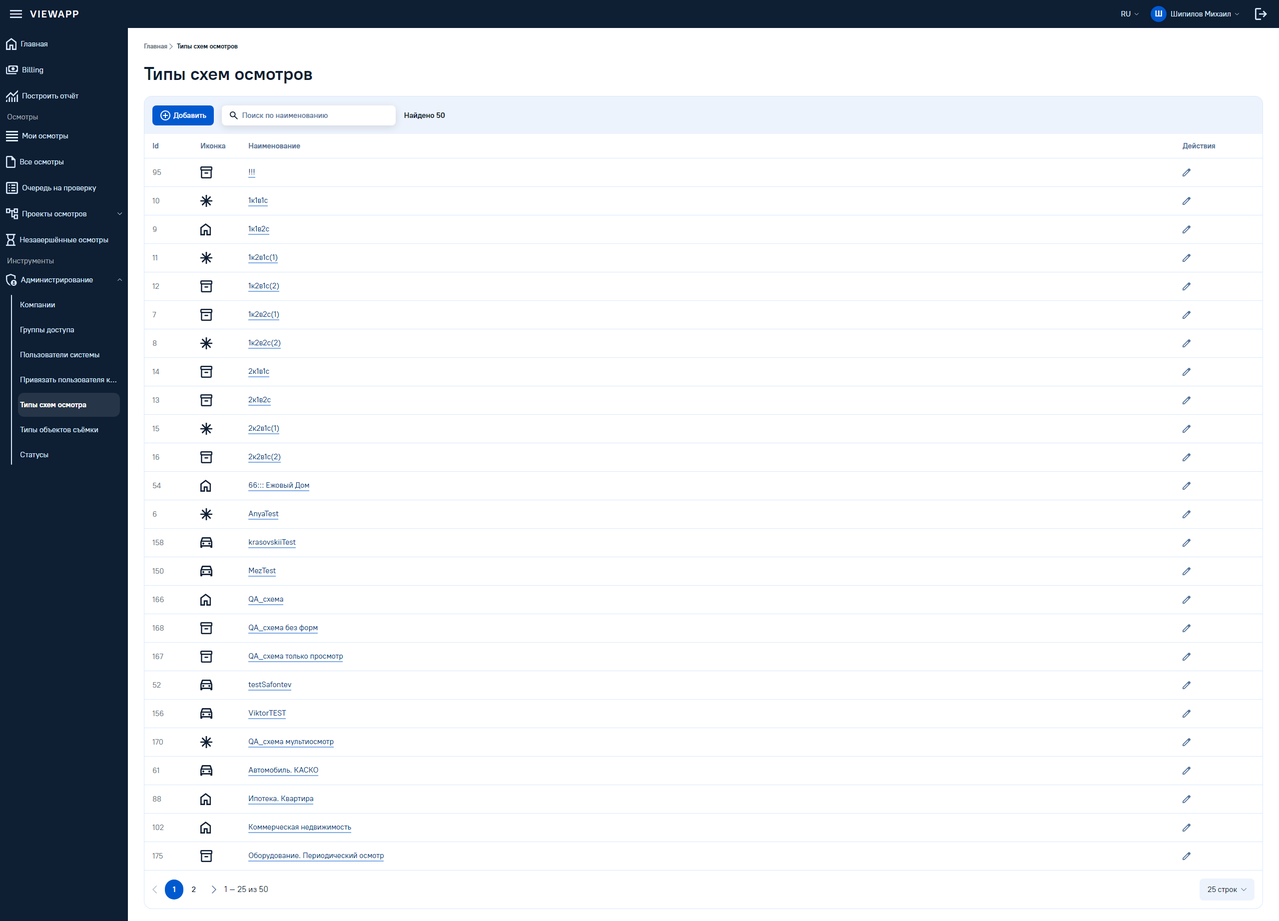
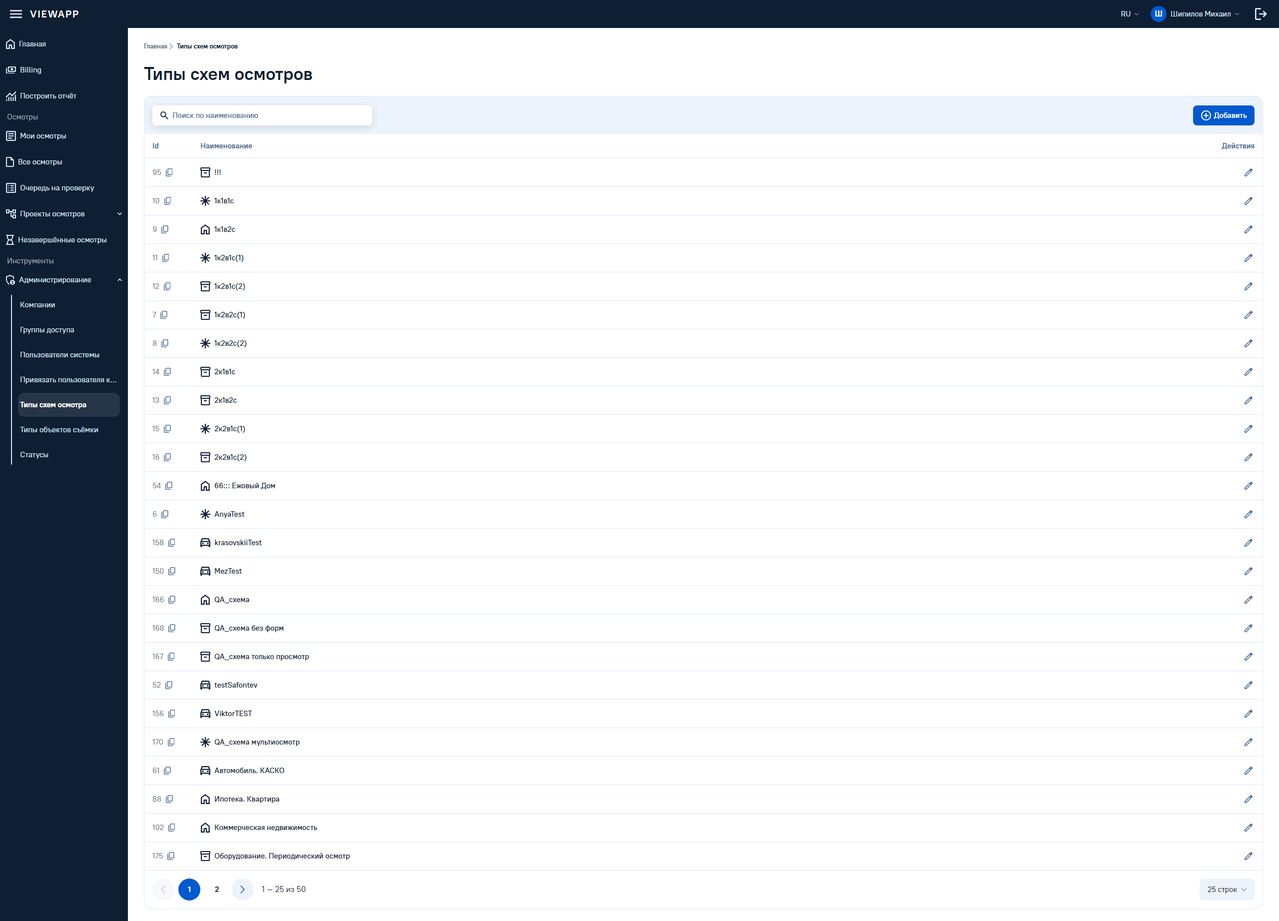
Такт 20: документы — канон таблицы, правила Mobbin, вопрос 34
naming.md: раздел «Такт 20: типовая страница-таблица админки (канон)»
вместо такта 10 (A–D с провенансом, живой поиск без изменений), раздел
«Действие строки» под D1–D6, новые компоненты в «Что где живёт».

CLAUDE.md: раздел «Референсы Mobbin» — четвёртая категория источника,
выборки делает чат, фиксация в page-*.md; ?actions=demo в оснастке.

page-insure-types.md: раздел «Такт 20» и «Референсы Mobbin» со
ссылками и счётом. open-questions.md: вопрос 34 — многозначная ячейка
справочника. handoff.md: такт 20 закрыт, следующий шаг — демо
фронт-лиду, затем стенд статусов. Скриншоты пересняты, добавлен
actions-demo; наведение и тултипы — headless Chrome через CDP.

diff --git a/docs/naming.md b/docs/naming.md
@@ -618,16 +618,26 @@ rososmotr своей поверхности под окно нет, и роль 
 | **Служебное действие рядом с содержимым — тип `service`** | подсказка, обновление списка, настройка колонок. В макете все три — один компонент `btn_service` кита 1: бокс 24, глиф `fg/secondary`. Брендовый цвет у них означал бы, что это основное действие блока, а оно не основное |
 | **Голых иконок-кнопок не бывает** | `<button>` с иконкой внутри не получит ни наведения, ни фокуса, ни гашения — и следующая такая кнопка соберётся по-своему. Даже там, где макет рисует одну пикту, в коде стоит компонент |
 
-### Действие строки — `TableRowAction`, раскрытие по строке
+### Действие строки — `TableRowAction` и `TableRowActions`
 
-Такт 10, компонент без мастера — композиция двух уже принятых идентичностей: покой `service`
-(разбор выше), развёрнутый вид — геометрия `ButtonAction` без его брендового цвета.
+Такт 10 заложил раскрытие подписи по строке, такт 20 закрепил колонку целиком. Мастера нет:
+композиция принятых идентичностей — покой `IconButton variant="service"`, попап «ещё» с «Моих
+осмотров» (`Popover` + `SelectItem`), тултип механики `TableCellText`.
 
 | Правило | Почему |
 |---|---|
-| **`TableRow` несёт `group/table-row` всегда, а не по запросу страницы** | маркер без потребителя ничего не стоит, а его отсутствие там, где он вдруг понадобится, — молчаливый дефект сборки. Тот же довод, что у `group/card` карточки |
-| **Подпись видна, но неактивна (`opacity-0`), а не убрана из DOM** | остаётся в дереве доступности: имя кнопки для читалки не зависит от того, наведена строка или нет. Отдельный `aria-label` поэтому не нужен |
-| **Ширина ячейки не реагирует на раскрытие** | у подписи меняется только `opacity`, не `width`/`max-width` — иначе соседние колонки едут при каждом наведении |
+| **`TableRow` несёт `group/table-row` всегда, а не по запросу страницы** | маркер без потребителя ничего не стоит, а его отсутствие там, где он понадобится, — молчаливый дефект сборки |
+| **Одно действие — `TableRowAction`: подпись слева, карандаш у правого края** | подпись «Редактировать» проявляется по наведению на строку, место зарезервировано, у подписи меняется только `opacity`. Владелец, такт 20 (D4) |
+| **Зазор подпись↔карандаш — 12 до глифа** | было 8 — владелец: слишком близко. Глиф 16 стоит в слоте 24, поэтому в разметке `gap-2`: 8 до слота плюс 4 поля слота. Владелец, такт 20 (D4); перевод в разметку — решение агента |
+| **Подпись видна, но неактивна (`opacity-0`), а не убрана из DOM** | остаётся в дереве доступности: имя кнопки для читалки не зависит от наведения |
+| **Тач — подпись видна по `(hover: none)`** | вторая метрика `(pointer: coarse)` врёт на стилус-экранах. Такт 10, сохранено |
+| **Несколько действий — `TableRowActions`** | контейнер колонки: слоты, порядок, выключенное, кебаб. Страница не раскладывает иконки сама |
+| **Порог: 1–3 действия инлайном, 4+ — кебаб, карандаш снаружи** | тихие иконки `IconButton service`, глиф 16. Владелец, такт 20 (D1); карандаш снаружи кебаба — рекомендация чата. Референс Mobbin: кебаб 3/15 |
+| **Порядок фиксирован глобально, справа налево** | карандаш у правого края всегда; левее — копировать, архивировать; левее всех — кебаб (глиф `pending`, тот же, что у «ещё» на «Моих осмотрах»). У одного действия одна координата на всю админку. Владелец, такт 20 (D2) |
+| **Слоты, а не поток** | слот 24×24 (хит-зона), зазор 8, `justify-end`; колонка резервирует ширину под максимум слотов страницы. Недоступное по правам действие стоит в слоте выключенным (`opacity-disabled`), слот не схлопывается. Владелец, такт 20 (D3) |
+| **При 2–3 действиях подписи нет — у иконок тултип с названием** | подпись у нескольких иконок развела бы их по разным координатам. Владелец, такт 20 (D4) |
+| **Удаление голой иконкой не ставится** | либо через `Dialog`-подтверждение, либо последним пунктом кебаба отдельной секцией; компонент уводит `destructive` в кебаб сам. Секцию отделяет зазор 8 — отдельного разделителя у Атома нет (`ListGroup` `542:4969`). Владелец, такт 20 (D5) |
+| **Набор действий у всех строк страницы один** | смешанные строки — только демо по оснастке `?actions=demo`. Владелец, такт 20 (D6) |
 
 ### Подвал таблицы примыкает, а не стоит рядом
 
@@ -686,44 +696,54 @@ rososmotr своей поверхности под окно нет, и роль 
 запись в `docs/open-questions.md`: там дыра (нет экспортируемых данных), а не конфликт с уже
 принятым решением.
 
-### Такт 10: типовая страница-таблица админки
+### Такт 20: типовая страница-таблица админки (канон)
 
-Мастера нет — это паттерн сборки, закреплённый на примере «Типы схем осмотров» и обязательный
-для любой будущей однотипной таблицы админки (списки справочников: типы объектов, статусы,
-пользователи и подобные). Провенанс всех решений — владелец, такт 10, если не помечено иначе.
+Мастера нет — это паттерн сборки, закреплённый на «Типах схем осмотров» и обязательный для любой
+будущей однотипной таблицы админки (справочники: типы объектов, статусы, пользователи и подобные).
+Провенанс — владелец, такт 20, если не помечено иначе.
 
-**Состав шапки-карточки таблицы:**
+> **Вариант такта 10 снят.** Там «Добавить» стоял слева, поиск и счётчик «Найдено N» — правее,
+> а колонка «Иконка» была отдельной. Закреплено превью тактов 13–18 с правками такта 20.
 
-| Часть | Правило |
-|---|---|
-| «Добавить» | `Button` без `variant` (primary), слева, первым элементом строки |
-| поиск | `Input variant="elevated"` с дефолтной лупой, плейсхолдер «Поиск по …» — предметный, не общий; правее кнопки |
-| счётчик | `«Найдено N»`, 15/20 Bold, правее поиска |
-| **правило расширения (не собирать, если фильтров нет)** | когда у страницы есть фильтры, шапка растёт **второй строкой**: ряд `FilterChip` под строкой действий и поиска, тот же контейнер `TableToolbar`. Раньше времени вторую строку не заводить — пустой ряд чипов лжёт о наличии фильтров там, где их нет |
+**A. Шапка**
 
-**Живой поиск — правило, а не разовая реализация:**
+| Часть | Правило | Провенанс |
+|---|---|---|
+| поиск | `Input variant="elevated"` 440 **слева**, дефолтная лупа, плейсхолдер предметный: «Поиск по …» | владелец, такт 20; референс Mobbin: поиск слева 7/9 |
+| «Добавить» | `Button` без `variant` (primary) **справа** | владелец, такт 20; референс Mobbin: кнопка добавления справа 9/9 |
+| ось | все элементы шапки по одной вертикальной оси (`items-center`) | владелец, такт 17 |
+| счётчик | **в шапке нет и не будет.** Число живёт в `TableFooter`: «1 – 25 из 50» | владелец, такт 18; прод: на исходной странице счётчика нет; референс Mobbin: счётчик у поля 0/15 |
+| правило расширения фильтрами | когда у страницы есть фильтры, шапка растёт **второй строкой** — ряд `FilterChip` в том же `TableToolbar`. Раньше времени вторую строку не заводить | перенесено из такта 10 без изменений |
+
+**Живой поиск — правило, а не разовая реализация** (перенесено из такта 10 без изменений):
 
 | Правило | Почему |
 |---|---|
-| **Фильтрация — по подстроке, без учёта регистра, до пагинации** | иначе счётчик «Найдено» и разбивка по страницам расходятся: страница может исчезнуть у отфильтрованного набора |
+| **Фильтрация — по подстроке, без учёта регистра, до пагинации** | иначе число в подвале и разбивка по страницам расходятся: страница может исчезнуть у отфильтрованного набора |
 | **Смена запроса сбрасывает номер страницы на первый** | иначе легко оказаться на странице, которой у нового набора уже нет — то же правило, что у смены размера страницы (такт 8, дефект `TableFooter`) |
 
-**Колонка «Действия»: две идентичности одного контрола, а не два элемента**
+**B. Блок идентичности**
 
-| Правило | Почему |
+| Правило | Провенанс |
 |---|---|
-| **В покое — только `service`-иконка, при наведении на строку — подпись** | решение владельца: действие не должно занимать внимание, пока строка не выбрана взглядом, но должно быть доступно всегда, а не только по клику |
-| **Триггер раскрытия — строка, а не сама кнопка** | `group/table-row` живёт на `TableRow` всегда (см. раздел 6, «Действие строки»), а не заводится на странице — тот же приём, что `group/card` у карточки осмотра |
-| **Подпись не сдвигает раскладку** | ширина колонки фиксированная под развёрнутое состояние; у подписи меняется только `opacity`, не ширина. Компонент этому не помогает и не мешает — контроль ширины остаётся на странице, как и у всех колонок таблицы («Ширину колонки задаёт таблица, а не ячейка») |
-| **Тач — по `(hover: none)`, не по `(pointer: coarse)`** | вторая метрика врёт на стилус-экранах без ховера; первая — точный признак отсутствия физической возможности навести курсор |
-| **Геометрия и цвет — из двух разных прецедентов, не из одного** | геометрия (зазор, высота строки) — от `ButtonAction`, нишевого «ghost»; цвет — от `IconButton variant="service"`. Компонент не является ни тем, ни другим целиком |
+| **Колонки «Иконка» нет: эмблема и имя — одна ячейка «Наименование»** — `TableCellIdentity`: иконка 20 в боксе 20×20, зазор 8, имя 15/20 medium `text-foreground` | владелец, такт 20; геометрия — пункт меню кита 1 (`menuItemContent`); референс Mobbin: OpenSea — аватар и имя одним блоком, имя весом выше остальных ячеек |
+| **Id — первая колонка, `text-muted-foreground`, `CopyableId`** | такт 10 и правило «идентификатор со службой копирования» (такт 11), сохранено |
+| **Остальные ячейки — regular** | владелец, такт 20: весом выше только имя |
 
-**Ячейки — рекомендация Claude, принята без переигровки:**
+**C. Строка — цель клика**
 
-| Правило | Почему |
+| Правило | Провенанс |
 |---|---|
-| **Id — на `text-muted-foreground`** | служебный номер, не содержательное значение; та же логика, что у приглушённых вспомогательных подписей везде в ките |
-| **Наименование — текст** | решение владельца, такт 12: `Hyperlink` снят. Плоский текст основного цвета (`text-foreground`) внутри `TableCellText`, без подчёркивания, без `href`, без ховера ссылки — сама ссылка на карточку сущности не заведена, строка остаётся кликабельной ховером строки. Рекомендация такта 10 не подтвердилась |
+| **Клик по строке открывает сущность на редактирование** — `TableRow interactive` (курсор-указатель, наведение такта 10). На стенде обработчика нет намеренно, как у «Добавить» | владелец, такт 20; референс Mobbin: клик в строку → панель 5/15 |
+| **Редактирование открывает страницу, а не дровер** | владелец, такт 20: форма справочника длинная — факт прода, страница статусов |
+
+**D. Колонка «Действия»** — правила в разделе «Действие строки — `TableRowAction` и
+`TableRowActions`» выше.
+
+**Карандаш по наведению с подписью — сознательное отклонение от референса.** Референс Mobbin:
+клик в строку → панель 5/15, кебаб 3/15, постоянная кнопка Edit 1/15, карандаш по ховеру с
+подписью 0/15. Владелец оставляет карандаш: строка кликабельна, карандаш — явный вход, как «Изм»
+на проде.
 
 ### Идентификатор со службой копирования
 
@@ -803,6 +823,8 @@ rososmotr своей поверхности под окно нет, и роль 
 | **Выпадающая плашка светлая даже когда она — настоящий портал из тёмного меню** | правило порталов. Сверено с мастером: заливка `MenuPopOver` белая, тень та же, что у выпадашки списка. Уточнение такта 9 — правило про порталы, не про «всё, что всплывает»: см. раздел выше |
 | **Цвет по роли, а не по виду** | `success` — потому что операция завершилась, а не потому что нужен зелёный. Разбор — раздел «Роль против палитры» выше |
 | **Расширенная палитра — только по явному указанию** | «похоже по цвету» не основание: зелёная `palette-01` стоит рядом с `success`, и перепутать легко |
+| **Колонка действий строки — `TableRowActions` в `table/`** | контейнер колонки: слоты, глобальный порядок (`TABLE_ROW_ACTION_ORDER` в `table/index.ts`), выключенное, кебаб. Одно действие он отдаёт `TableRowAction`. Такт 20 |
+| **Блок идентичности строки — `TableCellIdentity` в `table/`** | иконка 20 + зазор 8 + имя medium одной ячейкой. Живёт в таблице, а не в меню: геометрия общая с пунктом меню кита 1, назначение — ячейка. Такт 20 |
 
 ---
 

diff --git a/docs/handoff.md b/docs/handoff.md
@@ -16,7 +16,7 @@
 **Перенос Атома закончен, все девять волн приняты. Этап 2 — обогащение — закрыт целиком.**
 Идёт **тест кита на живой странице**: разбор ниже, история этапов — дальше по документу.
 
-## Где мы сейчас: тест кита на живых страницах завершён, такты 1–19 закрыты
+## Где мы сейчас: тест кита на живых страницах завершён, такты 1–20 закрыты
 
 Перенос и обогащение позади. **Тест кита на живых страницах закрыт.** Две страницы:
 
@@ -58,22 +58,19 @@
 | **18** — счётчик убран целиком | Типы схем осмотров | решение владельца: на исходной странице админки счётчика в шапке нет, вопрос отложен. Шапка — поле 440 слева, «Добавить» справа, центровка такта 17 сохранена (поле и кнопка по одной оси, дельта 0px) |
 | **19, часть 1** — палитра витрины по ролям | витрина `/` | раздел «Палитра» идёт по `naming.md`, раздел 2, в том же порядке (`app/components/showcase/palette-groups.ts`, `Palette.vue`, `PaletteSwatch.vue`): рампы строками «база → состояния», у свотча имя, hex **выбранной** темы и роль из `naming.md`/`tokens.md`/кода. Починен сборщик токенов — видел 21 цвет из 119 и пустые «Радиусы»/«Типографика». Сверка — дельтой к 2026-08-11, подраздел «Сверка 2026-09-15» в `tokens.md`, раздел 6: кит и старые токены без изменений, 26 новых сверены. Тема **не менялась**. Найдено: ложное «у рамп 02–05 только default» (верна была `naming.md`), `border/primary` из чужой библиотеки (вопрос 14), мёртвое переопределение теней в `atom` (ждёт команды) |
 | **19, часть 2** — палитра: единица — строка | витрина `/` | решение владельца 2026-09-15: карточки сняты, каждая группа — таблица из компонентов кита (без скругления и рамки контейнера, разделитель `--border-neutral`). Две формы одной строки: таблица ролей (Роль · Свотч · Токен · Hex · Где применяется) и матрица состояний (оси — только существующие в группе). Рампа — сплошная полоса клеток 64×40, пустое состояние — пустая клетка. Под клеткой — хвост токена и hex, база — в колонке «Роль»: полный токен до 222px моно 13 в клетку 64 не помещается (замер). Свотч 64×40 r8, обводка 1px внутрь нейтральной на 50%. Тени — все семь девятой группой «Тени» по разделу 4 `naming.md`, на подложке `--muted` (единственная группа с подложкой). Сайдбар — таблица ролей. Правки темы по пунктам 3 и 6 расхождений: комментарии рамп по факту и утилиты `bg-palette-02…05-hover`/`-pressed`; утилиты `shadow-elevated*` в `@theme inline` ссылаются на `var(--shadow-elevated*)`, значения — в блоке темы; переопределение в `atom` действует (проверено подстановкой значения в узел темы). Первый заход — перенос в `@theme` без `inline` — не сработал: утилита тени вшивает значение, чтобы подменять цвет. `TableRow` получил слияние `class` через `cn`, как соседи. Замеры: ячейка 56 (строка 57 с разделителем, как в таблице кита), паддинг 16, между группами 48, заголовок→таблица 16; atom — 73 помечены «из rososmotr». Правило — `naming.md`, раздел 6 |
+| **20** — паттерн типовой страницы-таблицы закреплён | Типы схем осмотров | превью тактов 13–18 принято и стало каноном в `naming.md` (вариант такта 10 снят). Шапка: поиск 440 слева, «Добавить» справа, одна ось, счётчика нет — число в подвале. Колонка «Иконка» снята: `TableCellIdentity` (иконка 20 + 8 + имя medium, геометрия пункта меню кита 1). Строка — цель клика (`interactive`, обработчика нет намеренно). Колонка действий — `TableRowActions`: 1 действие — `TableRowAction` с подписью слева и карандашом в слоте 24 у края (до глифа 12); 2–3 — тихие иконки с тултипами; 4+ или удаление — кебаб `pending` с попапом «ещё», «Удалить» отдельной группой. Глобальный порядок справа налево: карандаш, копировать, архивировать, кебаб; слоты 24 через 8, выключенное не схлопывается — у `IconButton service` заведён выключенный вид. Глиф `delete` из официальной выгрузки. Оснастка `?actions=demo`. Правила Mobbin — в `CLAUDE.md`; вопрос 34 (многозначная ячейка) — в `open-questions.md`. Наведение и тултипы проверены headless Chrome через DevTools Protocol: X карандаша 1226 у всех строк, колонка 176 при наведении |
 
-### Превью insure-types — ждёт приёмки владельцем
+### Такт 20 закрыт: паттерн закреплён
 
-Такты 13–18 (часть 2 каждого такта) собирали два куска страницы **в композиции самой страницы**,
-не трогая `naming.md` и канон компонентов такта 10 — это сознательно превью, а не закреплённое
-правило. Текущий вид:
+Превью тактов 13–18 принято владельцем с правками такта 20 и закреплено каноном типовой
+страницы-таблицы админки в `naming.md` — раздел «Такт 20: типовая страница-таблица админки
+(канон)»; вариант такта 10 снят. Колонка действий — раздел «Действие строки — `TableRowAction` и
+`TableRowActions`». Разбор по числам, провенанс и референсы Mobbin — `page-insure-types.md`,
+раздел «Такт 20».
 
-- **шапка без счётчика** — поле поиска (440) слева, «Добавить» справа, все элементы шапки по
-  одной вертикальной оси;
-- **колонка действий с подписью по ховеру строки** — тихий карандаш прижат к правому краю и не
-  двигается, подпись «Редактировать» проявляется слева от него при наведении на строку
-  (`opacity`, без сдвига раскладки), тултипа на иконке нет.
-
-После решения владельца — либо закрепляется в `naming.md` как новый канон типовой
-страницы-таблицы (взамен варианта такта 10), либо откатывается. Разбор по числам — в
-`page-insure-types.md`.
+Любая следующая таблица-справочник админки собирается по этому канону: шапка без счётчика,
+блок идентичности в «Наименовании», строка — цель клика, колонка действий через
+`TableRowActions`. Смешанный набор действий у строк — только оснастка `?actions=demo`.
 
 ### Сайдбар выправлен по мастеру и проду (такты 12–14, часть 1)
 
@@ -132,6 +129,7 @@ Headless-браузер (и headless Chrome через CDP для наведен
 | `?rows=<n>` | обе | размер страницы |
 | `?scroll=<px>` | Мои осмотры | прокручивает таблицу вбок |
 | `?q=<строка>` | Типы схем осмотров | подставляет поисковый запрос |
+| `?actions=demo` | Типы схем осмотров | первые три строки показывают раскладки 2, 3 и 4+ действий (кебаб) |
 
 **В продукт они не идут.** Помечены в коде как оснастка приёмки; при передаче фронтам — снять
 или спрятать за флагом сборки. Один из пунктов повестки Ивана.
@@ -153,21 +151,21 @@ npm install && npm run dev
 
 ### Следующий шаг
 
-0. **Такт 20 — insure-types.** Работа по палитре закрыта тактом 19 (части 1 и 2). Следующий такт
-   по странице «Типы схем осмотров» — 20: слово владельца по превью тактов 13–18 (закрепить в
-   `naming.md` взамен канона такта 10 или откатить).
 1. **Демо фронт-лиду.** Обе страницы готовы к показу: карточный и табличный вид «Мои осмотры»,
-   вторая страница как контраст «было / стало на ДС».
-2. **Повестка Ивана (фронт-лид)** — решения нужны от Михаила:
+   вторая страница как контраст «было / стало на ДС» — теперь с закреплённым каноном
+   типовой страницы-таблицы (такт 20).
+2. **Стенд статусов** — следующая таблица-справочник по канону такта 20. На нём решается
+   вопрос 34: многозначная ячейка «Компании».
+3. **Повестка Ивана (фронт-лид)** — решения нужны от Михаила:
    - мерж `atom-base` в общую ветку;
    - сторибук — заводить ли, и если да, то на чём;
    - судьба приёмочной оснастки (`?open=`, `?only=`, `?view=`, `?filters=`, `?selected=`,
-     `?rows=`, `?scroll=`, `?q=`) — снять перед мержем или спрятать за флагом;
+     `?rows=`, `?scroll=`, `?q=`, `?actions=demo`) — снять перед мержем или спрятать за флагом;
    - решение агента «второе направление сортировки поворотом глифа» — второго глифа в ките нет,
      разворот текущего используется как временное решение.
-3. **Дане при синхронизации мастеров Figma:** строка `ListItem` с правым слотом; рассинхрон
+4. **Дане при синхронизации мастеров Figma:** строка `ListItem` с правым слотом; рассинхрон
    плейсхолдеров поиска в двух кадрах макета «Мои осмотры».
-4. **Дизайнерам (через `figma-fixes.md` и `design-debt.md`):** ступень поверхности темнее
+5. **Дизайнерам (через `figma-fixes.md` и `design-debt.md`):** ступень поверхности темнее
    `accent/surface_bright` (наведение чипа); состояния `Chip` и `Slider` в мастере кита 1;
    компактное состояние `top_menu` сайдбара; развёрнутый инлайн-список подменю кита 1.
 

diff --git a/CLAUDE.md b/CLAUDE.md
@@ -321,6 +321,20 @@ Material рисует глиф с полями внутри квадрата 960
 бы белую плашку со светлым текстом — нечитаемо и против источника. Проверять степень
 принадлежности, а не просто «оно всплывает».
 
+## Референсы Mobbin
+
+Решение владельца, такт 20. Mobbin — **четвёртая категория источника: «референс»**, ниже мастера,
+прода и прецедента.
+
+| Правило | Как применяется |
+|---|---|
+| **Где есть мастер, референс не открывается** | мастер закрывает вопрос сам; референс его **никогда не переопределяет** |
+| **Решение по референсу — решение владельца** | провенанс пишется как «референс Mobbin N/M»: сколько экранов из выборки показывают паттерн |
+| **Выборки делает чат** | Михаил смотрит галерею своим глазом; агент получает выводы, счёт и ссылки |
+| **Агент открывает Mobbin сам только в тактах «разберись»** | для сущностей без мастера и только если выборка чата вопрос не закрыла |
+| **Один запрос — один элемент паттерна** | deep, web, 6 экранов; не больше двух запросов на элемент |
+| **Фиксация** | в `page-*.md` раздел «Референсы Mobbin»: таблица «экран → ссылка → что показывает», под ней счёт N из M. В `naming.md` у правила — провенанс |
+
 ## Сборка страниц
 
 Страница собирается **только из компонентов реестра**. Локальные override запрещены: если
@@ -341,7 +355,7 @@ Material рисует глиф с полями внутри квадрата 960
 Headless-браузер снимает страницу **от начала документа**: кликать и прокручивать он не
 умеет. Поэтому состояния для снимков задаются параметрами адреса, и они помечены в коде как
 оснастка приёмки: `?open=`, `?only=`, `?view=`, `?filters=`,
-`?selected=`, `?rows=`, `?scroll=`. В продукт они не идут.
+`?selected=`, `?rows=`, `?scroll=`, `?q=`, `?actions=demo`. В продукт они не идут.
 
 ### Класс снаружи мержится, а не приклеивается
 

diff --git a/docs/open-questions.md b/docs/open-questions.md
@@ -850,6 +850,36 @@ Hover и error у Атома нарисованы **картинками в до
 Атомовский `Pagination` `4104:36392` (голые шевроны, номера инстансом `Tabs`) остаётся
 фактом переноса волны 5 и описан в шапке компонента — но в сборке страниц не используется.
 
+## Такт 20, вопрос 34: 🟡 Многозначная ячейка справочника — открыт
+
+**Где.** Будущий стенд статусов — колонка «Компании»: у статуса несколько компаний, и их число
+не ограничено. Потребность владельца — **видеть все компании набора сразу**.
+
+**Варианты.**
+
+| Вариант | Как выглядит | Цена |
+|---|---|---|
+| **(а) чипы с переносом строк** | все компании видны целиком | высота строки гуляет, ритм таблицы ломается |
+| **(б) одна строка + «+N»** | первые компании в строку, остаток — счётчиком с тултипом-списком | не всё видно сразу — против потребности владельца |
+| **(в) компания как `FilterChip`** | ячейка короткая, компания становится фильтром | ячейка перестаёт показывать набор, превращается в вход в фильтр |
+
+**Референс Mobbin: одна строка 6/6, перенос 0/6.**
+
+| Экран | Ссылка | Что показывает |
+|---|---|---|
+| Shopify | mobbin.com/screens/65e7ada9-b927-43b8-9d96-d9819026eed9 | многозначная ячейка в одну строку |
+| Dovetail | mobbin.com/screens/832e5719-7133-4733-a7d2-87061364df60 | то же |
+| Airtable | mobbin.com/screens/78b76ba8-be7a-4286-a991-abf82f444044 | то же |
+| Juicebox | mobbin.com/screens/cbe1c32c-64a5-4017-b486-89563de632c0 | то же |
+| Midday | mobbin.com/screens/975c0ea4-58a5-442e-bea9-cd42f360fd5d | то же |
+| ClickUp | mobbin.com/screens/27113b60-6baf-4b1e-bd2c-3deebad34c58 | то же |
+
+Счёт: одна строка **6 из 6**, перенос **0 из 6**.
+
+**Статус.** Решается на стенде статусов, сейчас не собирается. Референс расходится с
+потребностью владельца: выборка единодушна за одну строку, а владелец хочет видеть набор
+целиком — это и есть предмет решения.
+
 ## Журнал решений
 
 | Дата | Вопрос | Решение | Кем |
